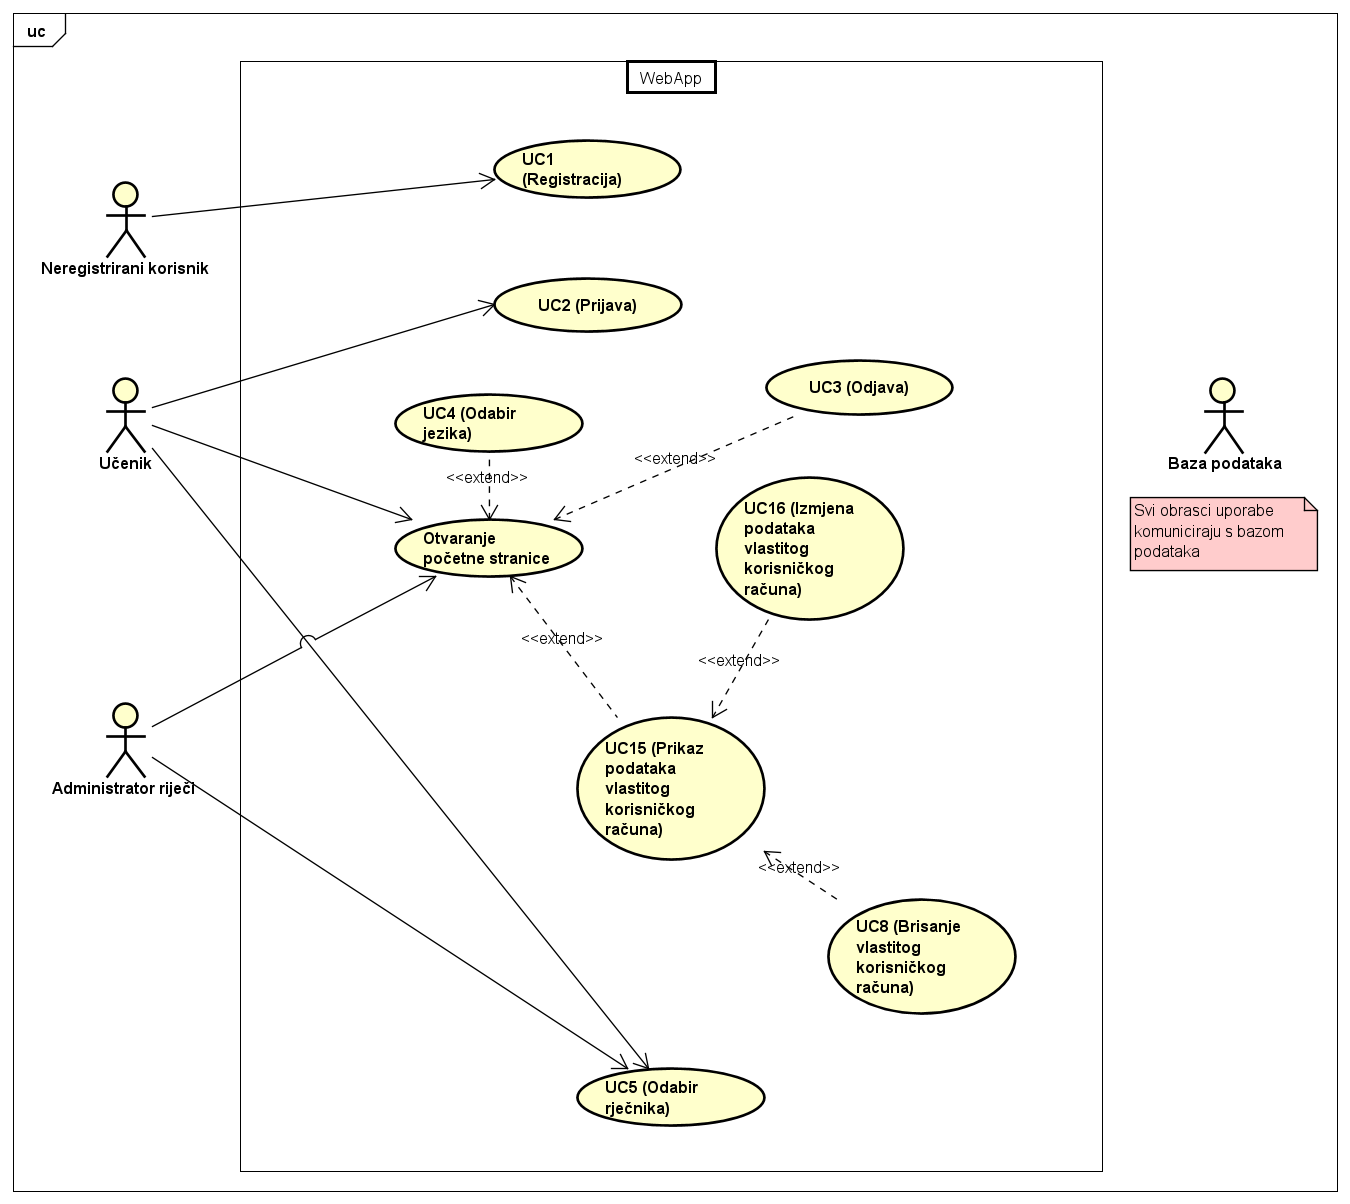
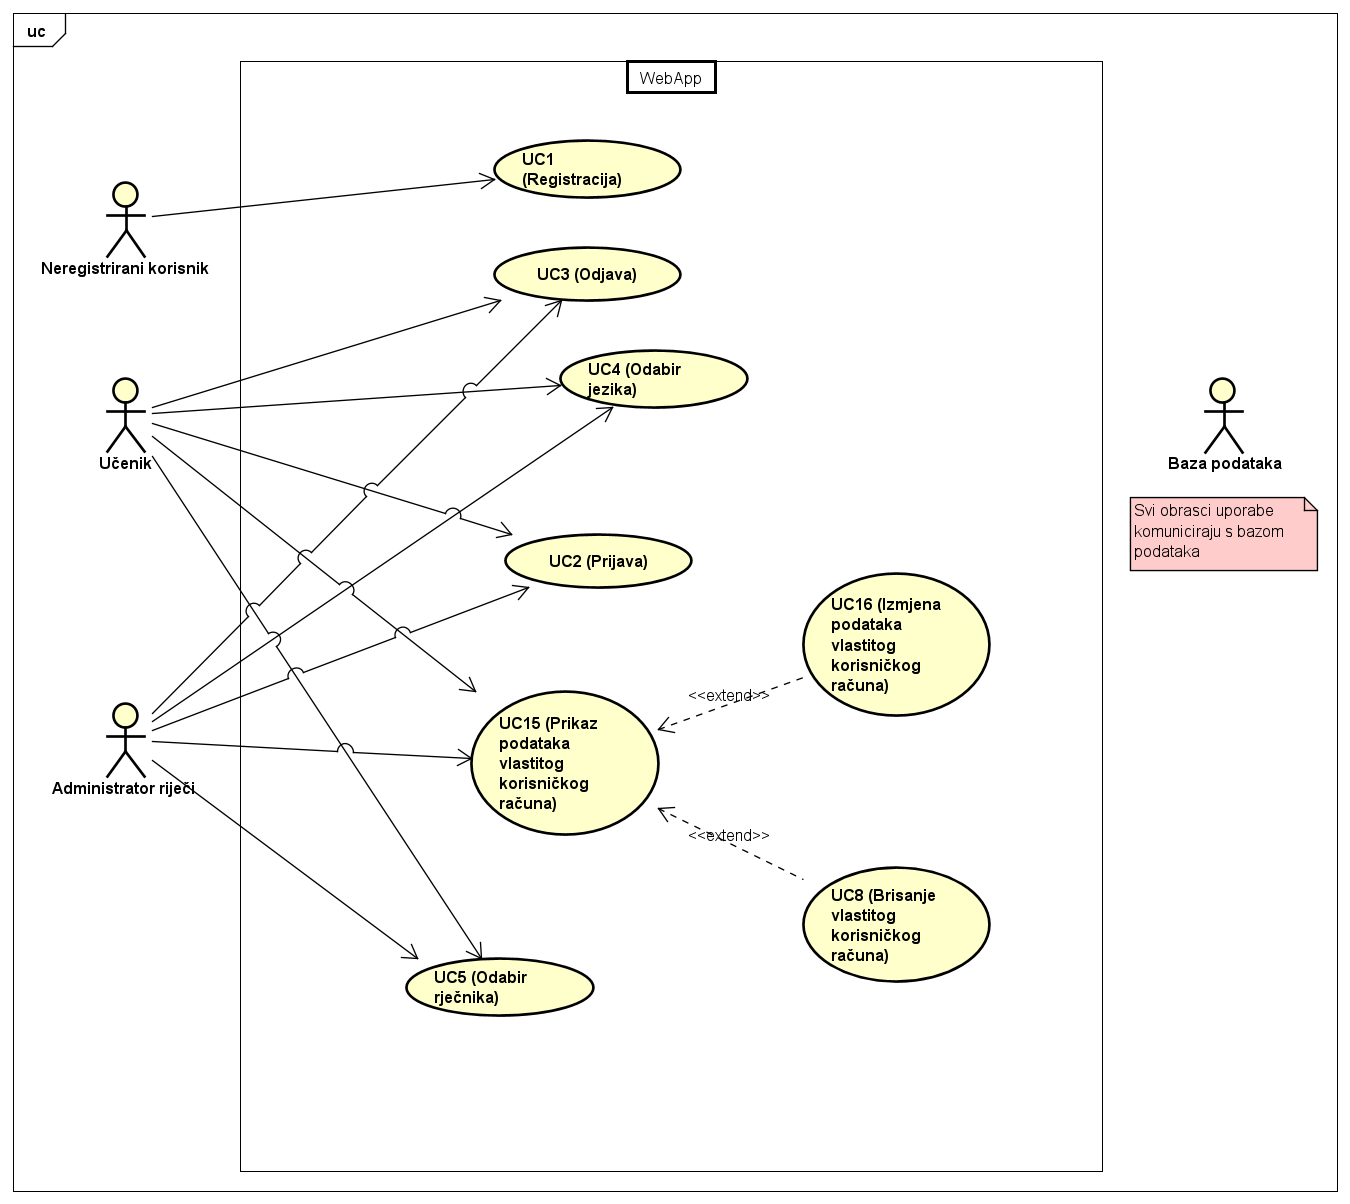
Popravljeni dijagrami obrazaca uporabe

diff --git a/dokumentacija/Opis_projektnog_zadatka.tex b/dokumentacija/Opis_projektnog_zadatka.tex
@@ -64,11 +64,10 @@ Kod "Dodavanje nove riječi" administrator ima opciju "Uređivanje riječi". "Ad
 Kako bi "Administrator riječi" uklonio riječ kod "Dodavanje nove riječi" administrator odabire rječnik u kojem se nalazi riječ koju želi ukloniti. Odabirom rječnika sustav otvara odabrani rječnik
 i "Administrator riječi" odabire opciju "Ukloni" za riječ koju želi ukloniti prilikom čega sustav prikazuje prozor s upitom "Jeste li sigurni da želite ukloniti odabranu riječ?". Odabirom opcije "Da" sustav uklanja odabranu riječ i prikazuje početnu stranicu. Ako u bilo kojem trenutku kod uklanjanja riječi administrator želi odustati, sustav ga vraća na početnu stranicu.
 
-U slučaju da "Administrator riječi" želi dodati druge nove administratore mora se prvo prijaviti na početnoj stranici. Nakon uspješne prijave administrator odabire opciju "Dodaj novog administratora"
-gdje sustav otvara formu za unos podataka gdje administrator unosi podatke i odabire opciju "Spremi". Klikom na gumb spremi sustav sprema promjene i vraća administratora na početnu stranicu. 
-Ako u bilo kojem trenutku administrator želi odustati od dodavanja novog administratora, sustav vraća administratora na početnu stranicu.
-
 Kako bi "Administrator riječi" obrisao postojeći "Korisnički" račun ili izmijenio osobne podatke postojećeg korisničkog računa, mora prvo biti prijavljen u sustav. Nakon uspješne prijave administrator odabire opciju "Upravljanje korisničkim računima" gdje sustav otvara formu koja administratoru nudi opciju "Brisanje korisničkog računa" i "Uređivanje korisničkog računa". Prva opcija ima samo jedno polje "Email". Druga opcija ima polja: "Email", "Novi email", "Novo ime", "Novo prezime". Nakon željenog odabira i popunjavanja administrator ima opciju "Spremi" koja izvršava odabranu radnju i opciju "Odustani" koja ne mijenja stanje u sustavu. Nakon željenog odabira, sustav vraća administratora na početnu stranicu.
+
+Uz to, nakon odabira opcije "Upravljanje korisničkim računima", "Administrator riječi" može odabrati i opciju dodavanja novog administratora. U slučaju da "Administrator riječi" želi dodati druge nove administratore, "Administrator riječi" mora odabrati opciju "Dodaj novog administratora" gdje sustav otvara formu za unos podataka gdje administrator unosi podatke i odabire opciju "Spremi". Klikom na gumb spremi sustav sprema promjene i vraća administratora na početnu stranicu. 
+Ako u bilo kojem trenutku administrator želi odustati od dodavanja novog administratora, sustav vraća administratora na početnu stranicu.
 
 Od postojećih aplikacija koje imaju slična rješenja kao "FlipMemo" izdvojili bi Anki i Duolingo. Glavna razlika između Anki aplikacije i našeg zadatka je što se Anki koristi u općenite svrhe isto koristeći ponavljanje s odmakom, a ne samo za učenje jezika dok naša aplikacija bi se fokusirala samo na učenje jezika. Duolingo predstavlja unaprijeđenu verziju našeg projektnog zadatka. Duolingo pruža korisnicima velik broj stranih jezika te korisnici kroz cjeline i predavanja postepeno uče gramatiku, izgovor, pisanje i mnoge druge opcije koje Duolingo nudi. 
 

diff --git a/dokumentacija/Specifikacija_programske_potpore.tex b/dokumentacija/Specifikacija_programske_potpore.tex
@@ -773,7 +773,7 @@
 					\item \textbf{Glavni sudionik: }Administrator riječi
 					\item  \textbf{Cilj:} Dodavanje novih administratora
 					\item  \textbf{Sudionici:} Baza podataka
-					\item  \textbf{Preduvjet:} UC2 (Prijava)
+					\item  \textbf{Preduvjet:} UC22 (Upravljanje korisničkim računima)
 					\item  \textbf{Opis osnovnog tijeka:}
 					
 					\item[] \begin{packed_enum}
@@ -1110,9 +1110,9 @@
 				\begin{packed_item}
 					
 					\item \textbf{Glavni sudionik: }Administrator riječi
-					\item  \textbf{Cilj:} Urediti podatke učeničkih korisničkih računa
+					\item  \textbf{Cilj:} Urediti podatke korisničkih računa
 					\item  \textbf{Sudionici:} Baza podataka
-					\item  \textbf{Preduvjet:} UC22 (Upravljanje učeničkim korisničkim računima)
+					\item  \textbf{Preduvjet:} UC22 (Upravljanje korisničkim računima)
 					\item  \textbf{Opis osnovnog tijeka:}
 					
 					\item[] \begin{packed_enum}
@@ -1152,7 +1152,7 @@
 					\item \textbf{Glavni sudionik: }Administrator riječi
 					\item  \textbf{Cilj:} Brisanje korisničkih računa
 					\item  \textbf{Sudionici:} Baza podataka
-					\item  \textbf{Preduvjet:} UC22 (Upravljanje učeničkim korisničkim računima)
+					\item  \textbf{Preduvjet:} UC22 (Upravljanje korisničkim računima)
 					\item  \textbf{Opis osnovnog tijeka:}
 					
 					\item[] \begin{packed_enum}
